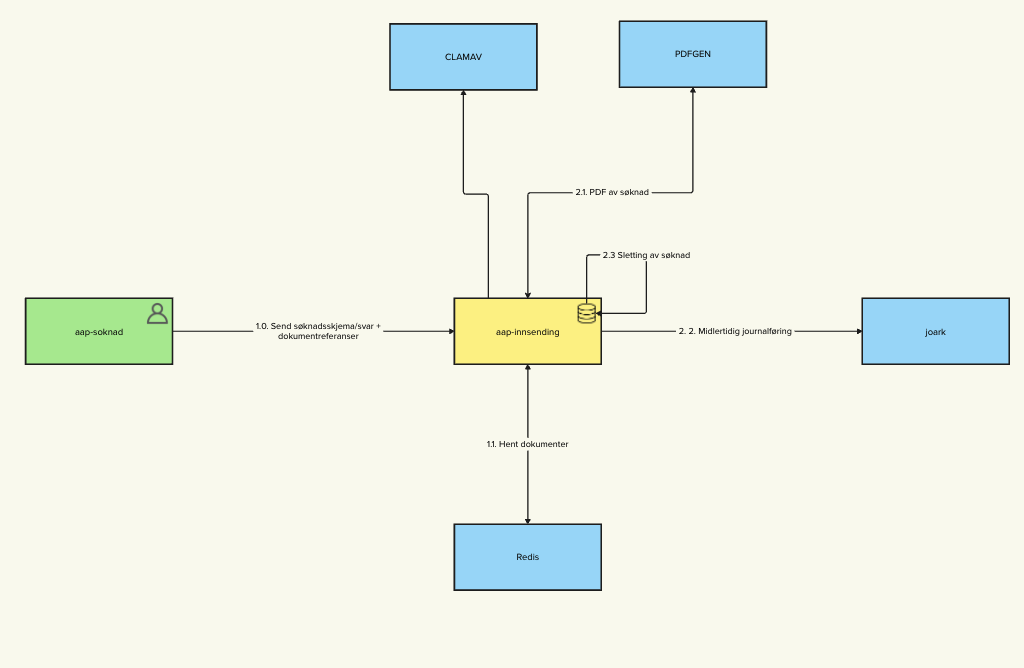
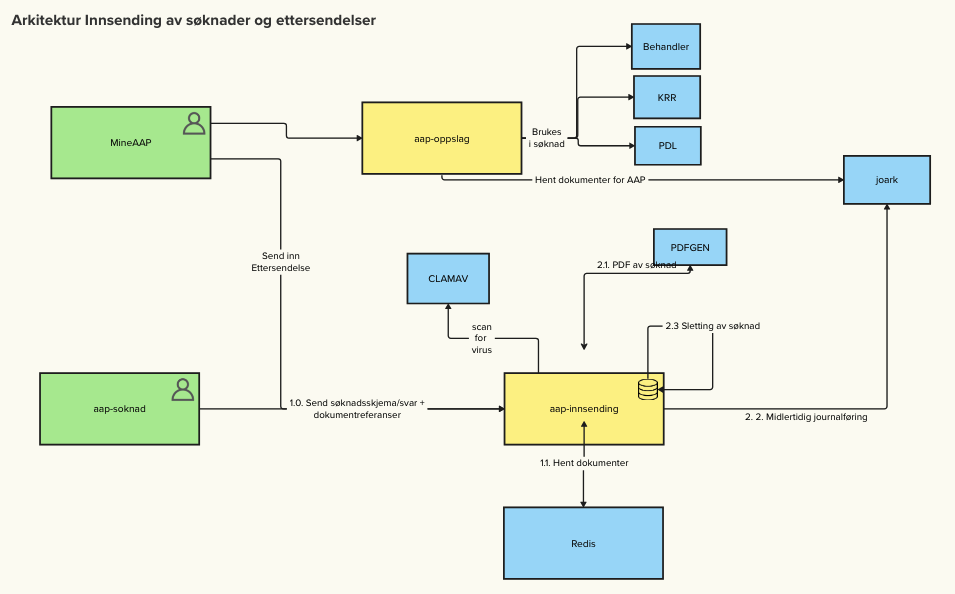
Lagt til lenker og bilde for innsending samt skrevet noen ord

diff --git a/dokumentasjon/docs/funksjonalitet/04_Innsending/funksjonell.md b/dokumentasjon/docs/funksjonalitet/04_Innsending/funksjonell.md
@@ -3,8 +3,28 @@ sidebar_position: 1
 ---
 
 # Funksjonell beskrivelse
+Brukeren skal kunne sende inn søknad om AAP digitalt. <br/> 
+Dette innebærer at brukeren skal kunne fylle ut søknadsskjema, legge ved dokumentasjon og sende inn søknaden.
 
+For å gjøre dette, må det funskjenlt støtte:
+- Hentes inn innformasjon fra registrene i NAV 
+- Lagre søknad for innbygger
 
+Det er bygget 2 komponenter for dette:
+- Oppslag, som slår opp relevant informasjon fra registrene i NAV
+- Innsending, som tar imot utfylt søknad og lagrer denne i NAV
+
+## Oppslag
+Oppslag er en komponent som henter informasjon fra registrene i NAV. 
+- Oppslag henter navnet til brukeren for å vise det på påloggede sider på nav.no
+- Oppslag henter informasjon om brukeren fra registrene i NAV som brukes i søknaden.
+  - Personopplysninger om innbygger og dens barn
+  - digital kontaktinformasjon
+  - Om bruker har registrert fastlege
+- Oppslag henter informasjon som bruker kan se på Mine AAP
+  - Dokumenter tilknyttet bruker på tema AAP
+  - Brev som NAV har sendt til bruker.
+  - Dokumenter sendt inn av andre på vegne av innbygger, som er knyttet til søknad om AAP.
 ## Komponent diagram
-![Komponent diagram](../../bilder/innsending.png)
+![Komponent diagram Innsending](../../bilder/innsending.png)
 [Mural](https://app.mural.co/t/navdesign3580/m/navdesign3580/1686128879741/be8d640e3e037731badc3a78c09db5c1c14a8e7f?sender=sturlehelland7470) 
